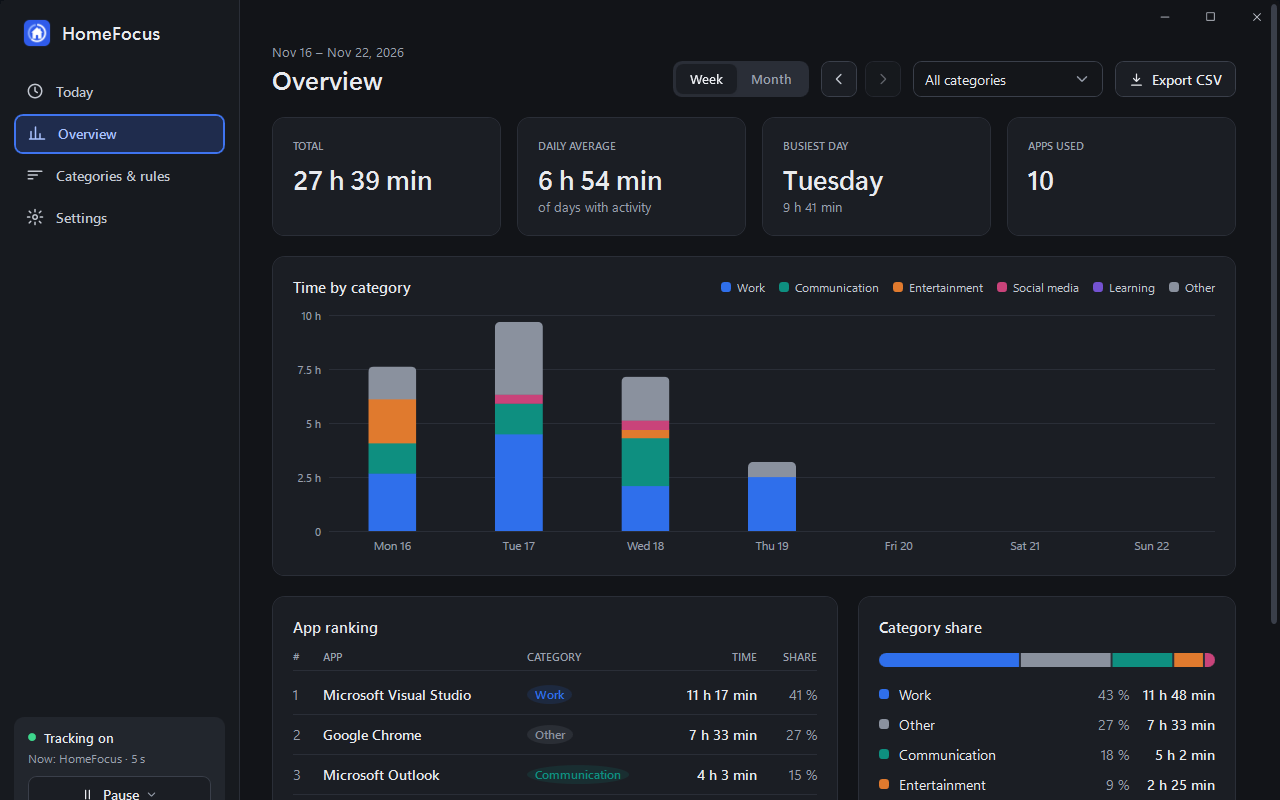
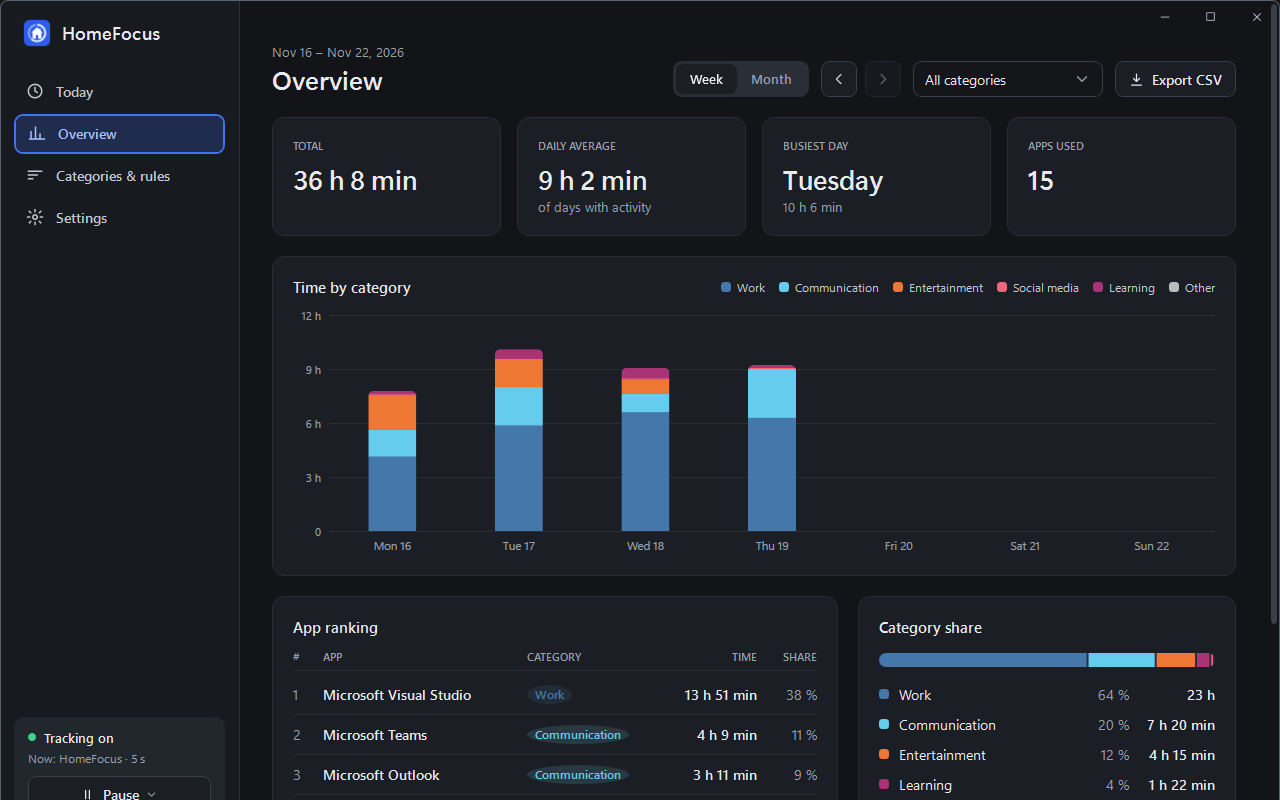
New screenshots with the current colors and website tracking

diff --git a/site/index.html b/site/index.html
@@ -99,7 +99,7 @@ footer{padding:40px 0;color:var(--muted);font-size:14px;text-align:center;border
     <a class="btn" href="https://github.com/mejmo/HomeFocus/releases/latest">Download for Windows</a>
     <a class="btn ghost" href="https://github.com/mejmo/HomeFocus">View source</a>
     <div class="pills"><span>Windows 10 &amp; 11</span><span>Signed installer</span><span>No account</span><span>No cloud</span><span>English &amp; Slovak</span></div>
-    <div class="shot"><img src="images/overview-dark.png" alt="HomeFocus weekly overview: time by category and app ranking" width="1280" height="840"></div>
+    <div class="shot"><img src="images/app-overview.png" alt="HomeFocus weekly overview: time by category and app ranking" width="1280" height="840"></div>
   </div>
 </div>
 
@@ -108,8 +108,8 @@ footer{padding:40px 0;color:var(--muted);font-size:14px;text-align:center;border
     <h2>Working from home blurs the day</h2>
     <p class="lead">At the office the day has edges. At home, a quick look at chat becomes half an hour, and the evening slides into "just one more thing". HomeFocus gives you an honest picture of your day, without judgement and without effort: it just runs in the tray.</p>
     <div class="two">
-      <img src="images/today-dark.png" alt="HomeFocus Today view with a day timeline and top apps" loading="lazy" width="1280" height="840">
-      <img src="images/overview-dark.png" alt="HomeFocus weekly overview" loading="lazy" width="1280" height="840">
+      <img src="images/app-today.png" alt="HomeFocus Today view with a day timeline and top apps" loading="lazy" width="1280" height="840">
+      <img src="images/app-overview.png" alt="HomeFocus weekly overview" loading="lazy" width="1280" height="840">
     </div>
   </div>
 </section>

diff --git a/README.md b/README.md
@@ -17,7 +17,7 @@
 <p align="center"><b>Stay in focus while you work from home.</b><br>
 HomeFocus quietly tracks where your time goes on your Windows PC, so you can see when work turns into scrolling.</p>
 
-![HomeFocus – weekly overview by category and app ranking](docs/images/overview-dark.png)
+![HomeFocus – weekly overview by category and app ranking](docs/images/app-overview.png)
 
 ## Why HomeFocus
 
